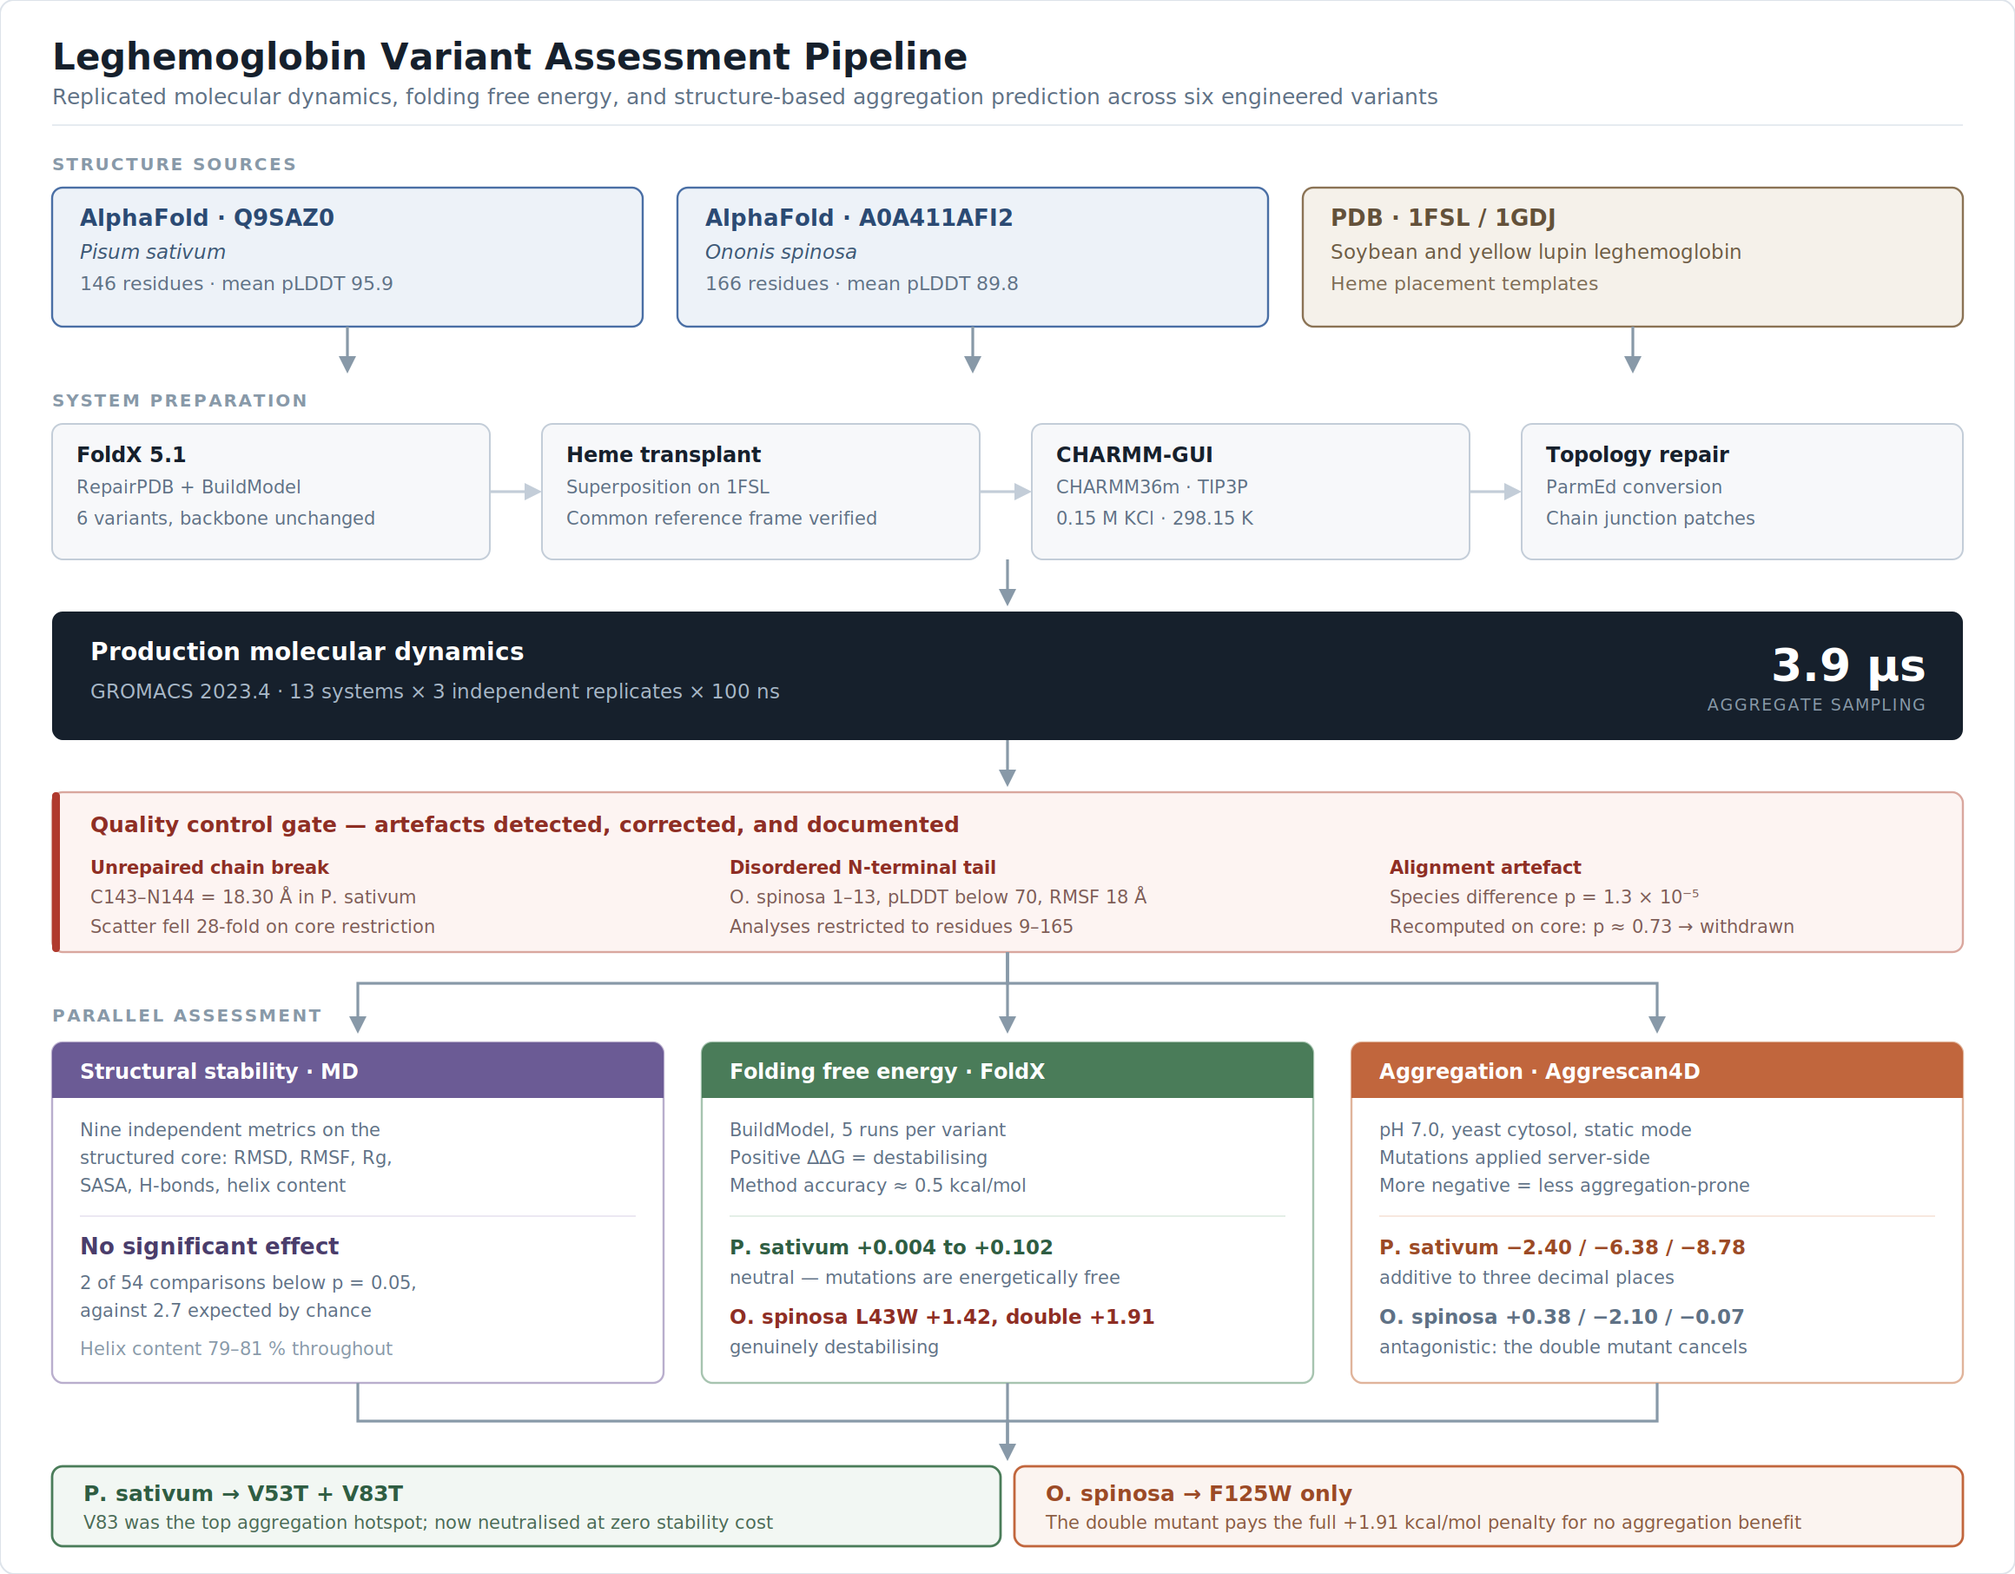
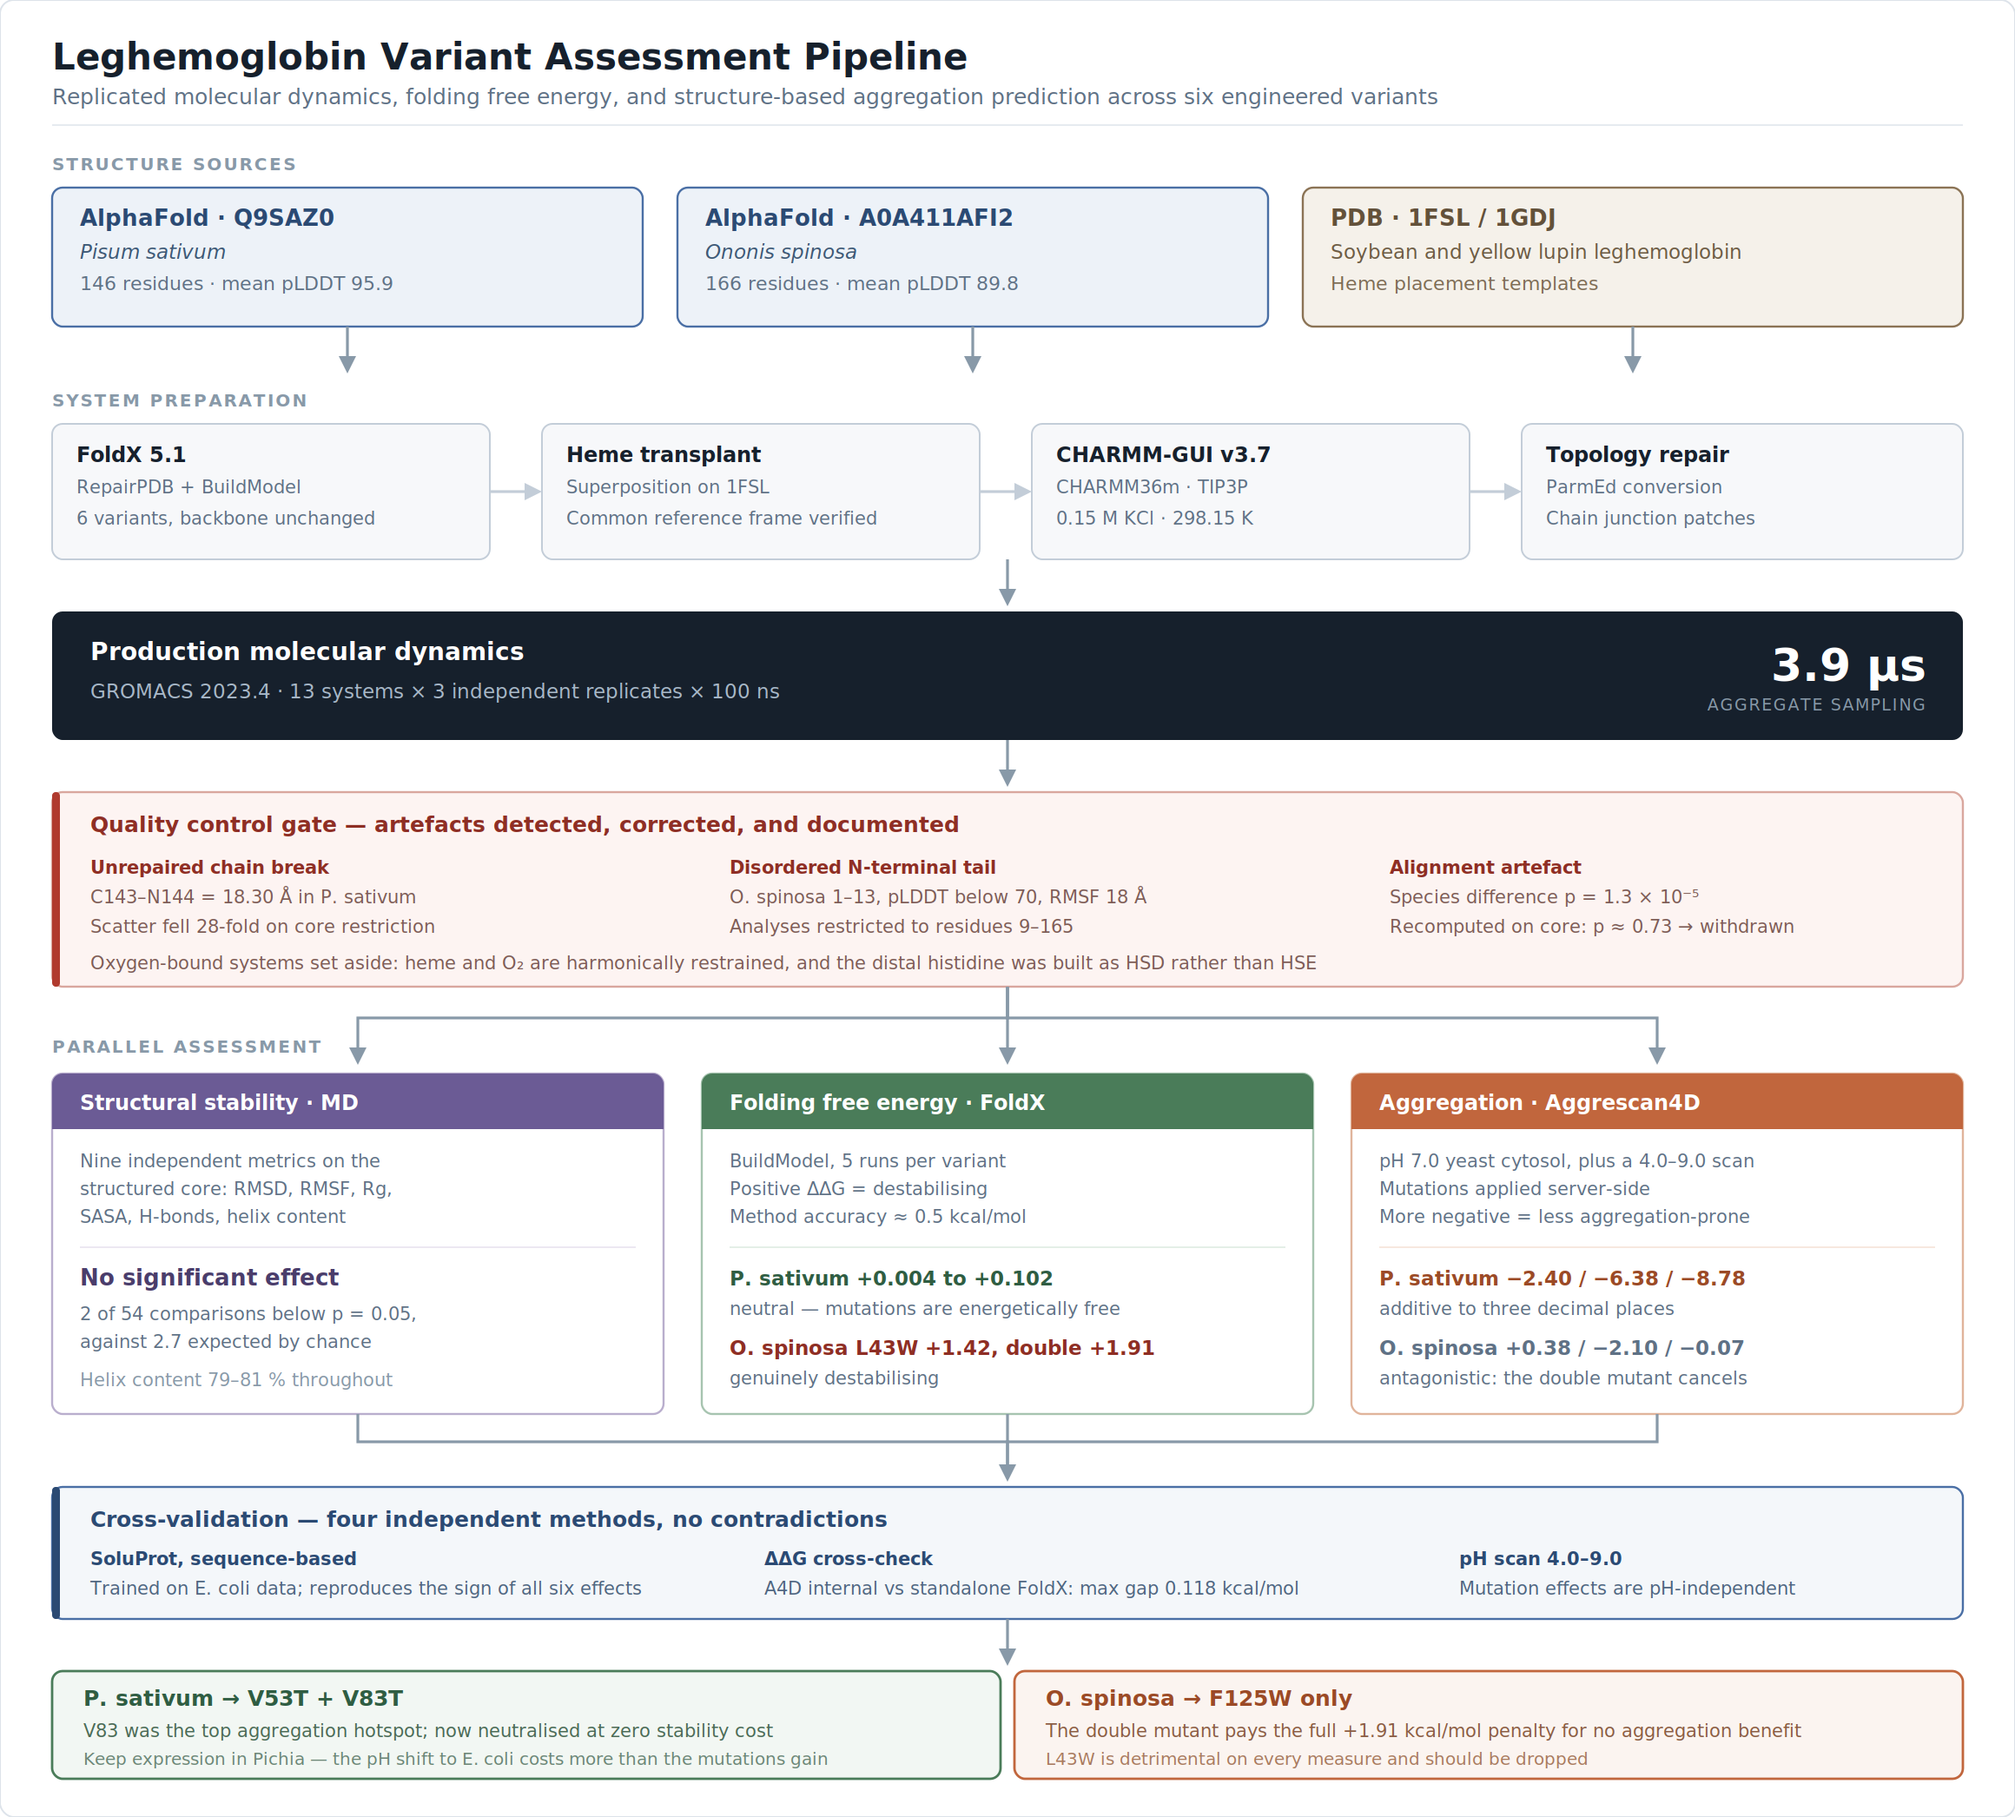
docs: update figure with cross-validation band; add SoluProt and pH scan to README and METHODS

Changed region(s): [[0.0, 0.0, 0.9931, 0.989]]

diff --git a/scripts/analysis/solubility/make_fasta.py b/scripts/analysis/solubility/make_fasta.py
@@ -1,0 +1,59 @@
+import os
+from collections import OrderedDict
+
+AA3TO1 = {'ALA':'A','ARG':'R','ASN':'N','ASP':'D','CYS':'C','GLN':'Q','GLU':'E',
+          'GLY':'G','HIS':'H','ILE':'I','LEU':'L','LYS':'K','MET':'M','PHE':'F',
+          'PRO':'P','SER':'S','THR':'T','TRP':'W','TYR':'Y','VAL':'V'}
+
+JOBS = [
+ ("pea", "P_sativum",
+  "../legHb_project/P.sativum/AF-Q9SAZ0-F1-model_v6.pdb",
+  [("WT",        []),
+   ("V53T",      [(53,'V','T')]),
+   ("V83T",      [(83,'V','T')]),
+   ("V53T_V83T", [(53,'V','T'), (83,'V','T')])]),
+ ("spi", "O_spinosa",
+  "../legHb_project/AF-A0A411AFI2-F1-model_v6.pdb",
+  [("WT",         []),
+   ("L43W",       [(43,'L','W')]),
+   ("F125W",      [(125,'F','W')]),
+   ("L43W_F125W", [(43,'L','W'), (125,'F','W')])]),
+]
+
+def seq_from_pdb(path):
+    res = OrderedDict()
+    for l in open(path, errors="ignore"):
+        if l[:6] == "ATOM  ":
+            res[int(l[22:26])] = l[17:20].strip()
+    ks = sorted(res)
+    if ks != list(range(ks[0], ks[-1] + 1)):
+        raise SystemExit(f"✗ شمارهگذاری {path} پیوسته نیست")
+    return ks[0], [AA3TO1.get(res[k], 'X') for k in ks]
+
+ok = True
+for tag, species, pdb, variants in JOBS:
+    if not os.path.exists(pdb):
+        print(f"✗ {pdb} پیدا نشد"); ok = False; continue
+    start, wt = seq_from_pdb(pdb)
+    print(f"\n{species}: {len(wt)} باقیمانده، شمارهگذاری از {start}")
+
+    for name, muts in variants:
+        s = list(wt)
+        for pos, old, new in muts:
+            i = pos - start
+            if s[i] != old:
+                print(f"  ✗ {name}: موقعیت {pos} = {s[i]} است نه {old}")
+                ok = False; continue
+            s[i] = new
+            print(f"  ✓ {name}: {old}{pos}{new} اعمال شد")
+        seq = "".join(s)
+        fn = f"{tag}_{name}.fasta"
+        with open(fn, "w") as fh:
+            fh.write(f">{species}_{name}\n")
+            for i in range(0, len(seq), 60):
+                fh.write(seq[i:i+60] + "\n")
+        # تأیید: چند تفاوت با WT دارد؟
+        ndiff = sum(1 for a, b in zip(seq, "".join(wt)) if a != b)
+        print(f"     → {fn}  ({len(seq)} aa، {ndiff} تفاوت با WT)")
+
+print("\n" + ("همه چیز درست است." if ok else "⚠ خطا هست — ادامه ندهید."))

diff --git a/docs/METHODS.md b/docs/METHODS.md
@@ -267,6 +267,24 @@ protocol: [`WEB_TOOLS.md`](WEB_TOOLS.md) section 3.
 
 ---
 
+## 8b. Sequence-Based Solubility
+
+SoluProt, run on the eight FASTA sequences generated by
+`scripts/analysis/solubility/make_fasta.py`. The tool is trained on
+soluble-expression data from *E. coli*, which makes it relevant to the host
+comparison and independent of every structural method used here.
+
+Higher scores indicate higher predicted solubility; the classification
+threshold is 0.5. All eight variants scored 0.766–0.820 and are therefore all
+predicted soluble. SoluProt is a classifier rather than a calibrated
+quantitative scale, so the sign of each change is reported and the precise
+ranking is not.
+
+Protein-Sol was the tool originally intended for this step. It returned a
+server error (`No space left on device`) on both attempts.
+
+---
+
 ## 9. Reproducibility Notes
 
 Raw trajectories are not distributed (39 files, approximately 336 MB each). All
